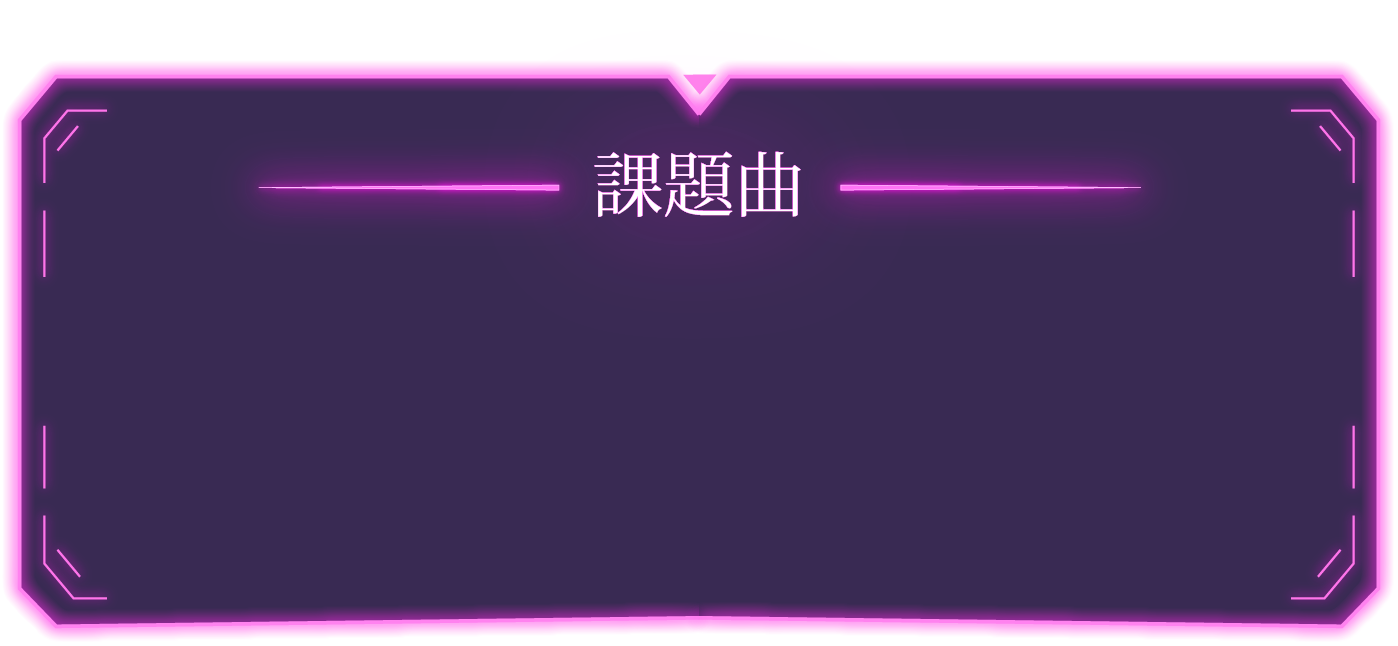
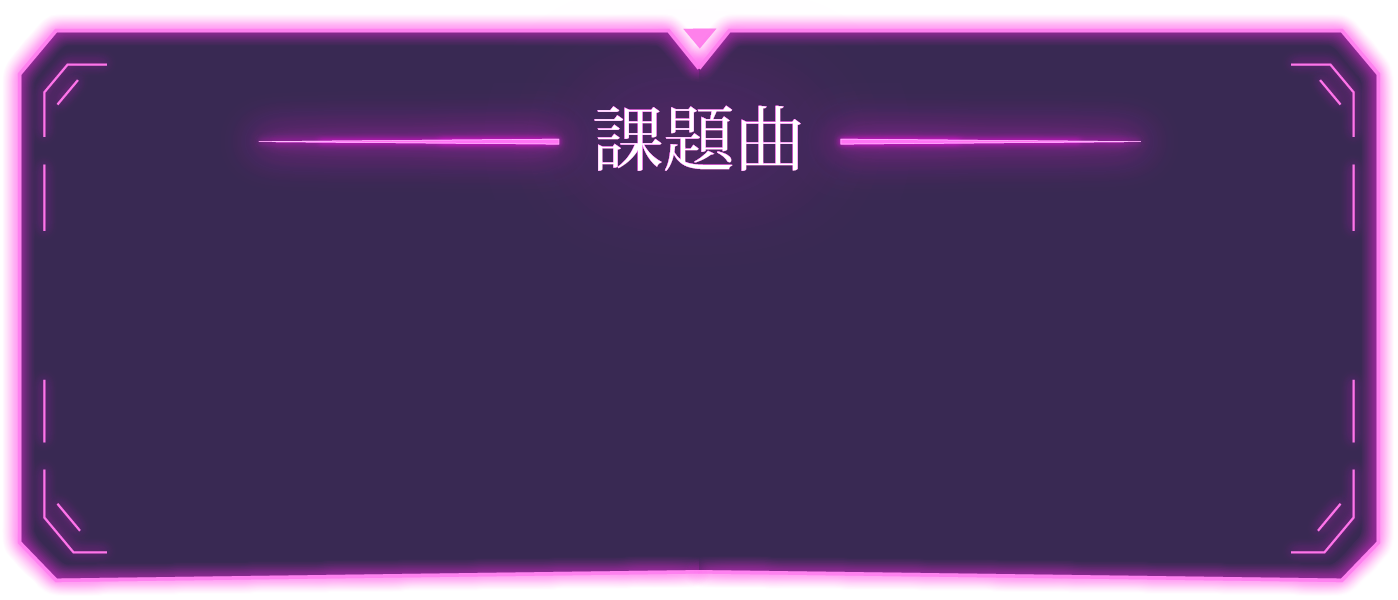
課題曲選曲画面のUIを修正

diff --git a/src/App.tsx b/src/App.tsx
@@ -237,27 +237,44 @@ function App() {
   });
 
   return (
-    <div className="min-h-screen w-full bg-[url('/public/bg_b4utech.png')] bg-center bg-cover text-slate-100 p-10">
-
-      <div className="
-        px-6 py-5
-        text-center
-        font-sans
-        tracking-wider
-        text-white
-        [text-shadow:_2px_2px_0_rgb(64_64_64),_-2px_2px_0_rgb(64_64_64),_2px_-2px_0_rgb(64_64_64),_-2px_-2px_0_rgb(64_64_64)]
-        md:px-10 md:py-7">
-        <p className="text-8xl font-bold">
-          {tournamentName}
-        </p>
-      </div>
+    <div className="
+    min-h-screen w-full
+    bg-[url('/public/bg_b4utech.png')] bg-center bg-cover
+    text-white">
 
       {(selectState !== "showResult") && (
-        <div className="[text-shadow:_2px_2px_0_rgb(64_64_64),_-2px_2px_0_rgb(64_64_64),_2px_-2px_0_rgb(64_64_64),_-2px_-2px_0_rgb(64_64_64)]">
-          <h1>{currentDivisionTitle}部門 {currentRoundName}</h1>
-          <SongSelector
-            song={song}
-          />
+        <div className="
+        w-screen h-screen
+        bg-[url('/bg_roulette.png')] bg-no-repeat bg-center bg-cover
+        flex flex-col items-center justify-center select-none">
+
+          <div className="
+          bg-[url('/bg_division.png')] bg-no-repeat bg-center bg-contain
+          w-[1394px] h-[236px] flex items-center justify-center">
+            <p className="[text-shadow:_0_0_10px_purple]
+            italic font-thin font-serif text-8xl text-white">
+              {currentDivisionTitle} 部門
+            </p>
+          </div>
+
+          <div className="
+          bg-[url('/bg_round.png')] bg-no-repeat bg-center bg-contain
+          w-[1188px] h-[161px] flex items-center justify-center">
+            <p className="[text-shadow:_0_0_10px_purple]
+            italic font-thin font-serif text-5xl text-white">
+              {currentRoundName}
+            </p>
+          </div>
+
+          <div className="
+          bg-[url('/bg_selectedSong.png')] bg-no-repeat bg-center bg-contain
+          w-[1398px] h-[600px] flex flex-col items-center justify-center
+          [text-shadow:_0_0_10px_purple]">
+            <SongSelector
+              song={song}
+            />
+          </div>
+
         </div>)}
 
       {selectState === "showResult" && (

diff --git a/src/components/SongSelector.tsx b/src/components/SongSelector.tsx
@@ -19,11 +19,13 @@ export function SongSelector({
         }
         return (
             <div>
-                <p className="mt-2 text-3xl font-black tracking-tight md:text-5xl lg:text-6xl">
+                <br/>
+                <br/>
+                <p className="text-6xl font-bold">
                     {songForDisplay.title}
                 </p>
-                <br></br>
-                <p className="mt-3 text-2xl font-bold md:text-3xl lg:text-4xl">
+                <br/>
+                <p className="text-4xl">
                     {songForDisplay.difficulty} {songForDisplay.level}
                 </p>
             </div>
@@ -31,11 +33,7 @@ export function SongSelector({
     }
 
     return (
-        <div className="mx-auto w-full max-w-6xl px-4 py-10 text-center md:py-14 lg:py-16">
-            <p className="text-2xl font-bold">
-                課題曲:
-            </p>
-
+        <div className="font-sans text-balance">
             {displaySongByState()}
         </div>
     )
